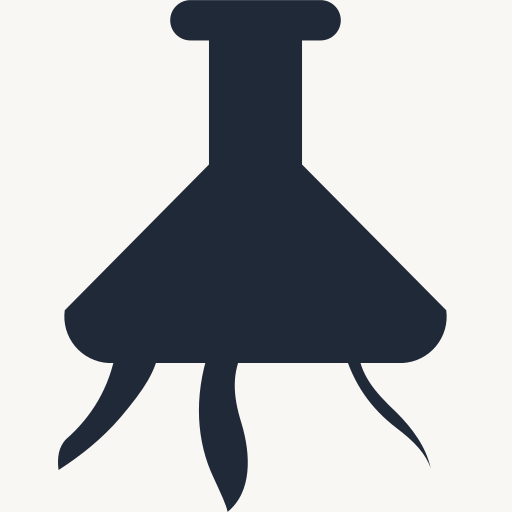
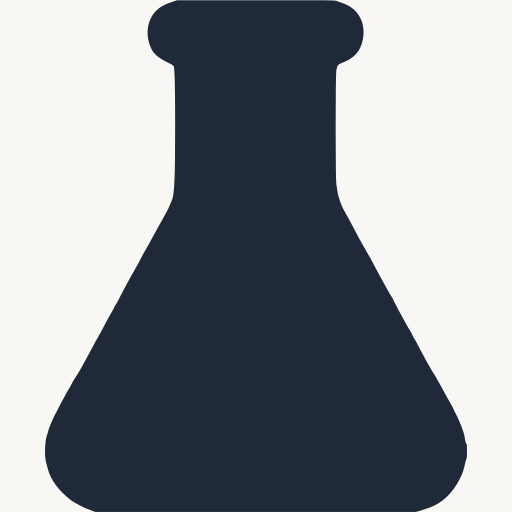
brand: pick up the corrected small mark
The redrawn silhouette was rejected upstream. mark-small.svg is now the
master's own vial, filled solid with the tendrils clipped above the base —
derived from the master, not re-authored — so the favicon set here is the same
vessel as the mark.svg beside it rather than a lookalike.

Assets plus the two doc lines that described it as a redraw. Every copied file
re-checked byte-identical to company/brand/.

Changed region(s): [[0.0625, 0.0, 0.9375, 1.0]]

diff --git a/status.md b/status.md
@@ -44,7 +44,8 @@ Last updated: **2026-07-30**
   `summary_large_image`), and `icon-512.png` for the JSON-LD `logo`. The old 317 kB
   `logo.png` did all of those jobs at once and is deleted.
 - **Two drawings of the mark, and the medium picks (upstream C11 / `R-003`).** Every
-  **square raster icon** here is the simplified solid **small mark**; `mark.svg` in the
+  **square raster icon** here is the **small mark** — the master's own vial filled solid
+  with the tendrils clipped off, derived from the master rather than redrawn; `mark.svg` in the
   nav, footer, legal and 404 is the **master**. They are not the same drawing and that is
   deliberate — a 16px PNG gets 16 pixels, where the vector at 30px gets 60 on a 2× display.
   **`og.png` now carries the company name:** the horizontal lockup, mark plus "WRAD LABS"

diff --git a/docs/ARCHITECTURE.md b/docs/ARCHITECTURE.md
@@ -67,8 +67,9 @@ there, re-run its build, re-copy. One asset per slot — the point of the set is
 single file is stretched across four jobs the way the old `logo.png` was.
 
 **Two drawings of the mark exist upstream, and the medium picks between them (C11 /
-R-003):** square *raster* icons use the simplified solid `mark-small`, everything else
-uses the master. That is why the favicons and `mark.svg` below are not the same drawing
+R-003):** square *raster* icons use `mark-small` — the master's own vial filled solid
+with the tendrils clipped, derived from the master rather than redrawn — and everything
+else uses the master itself. That is why the favicons and `mark.svg` below are not the same drawing
 — it is deliberate, not drift.
 
 | File | Slot | Notes |
